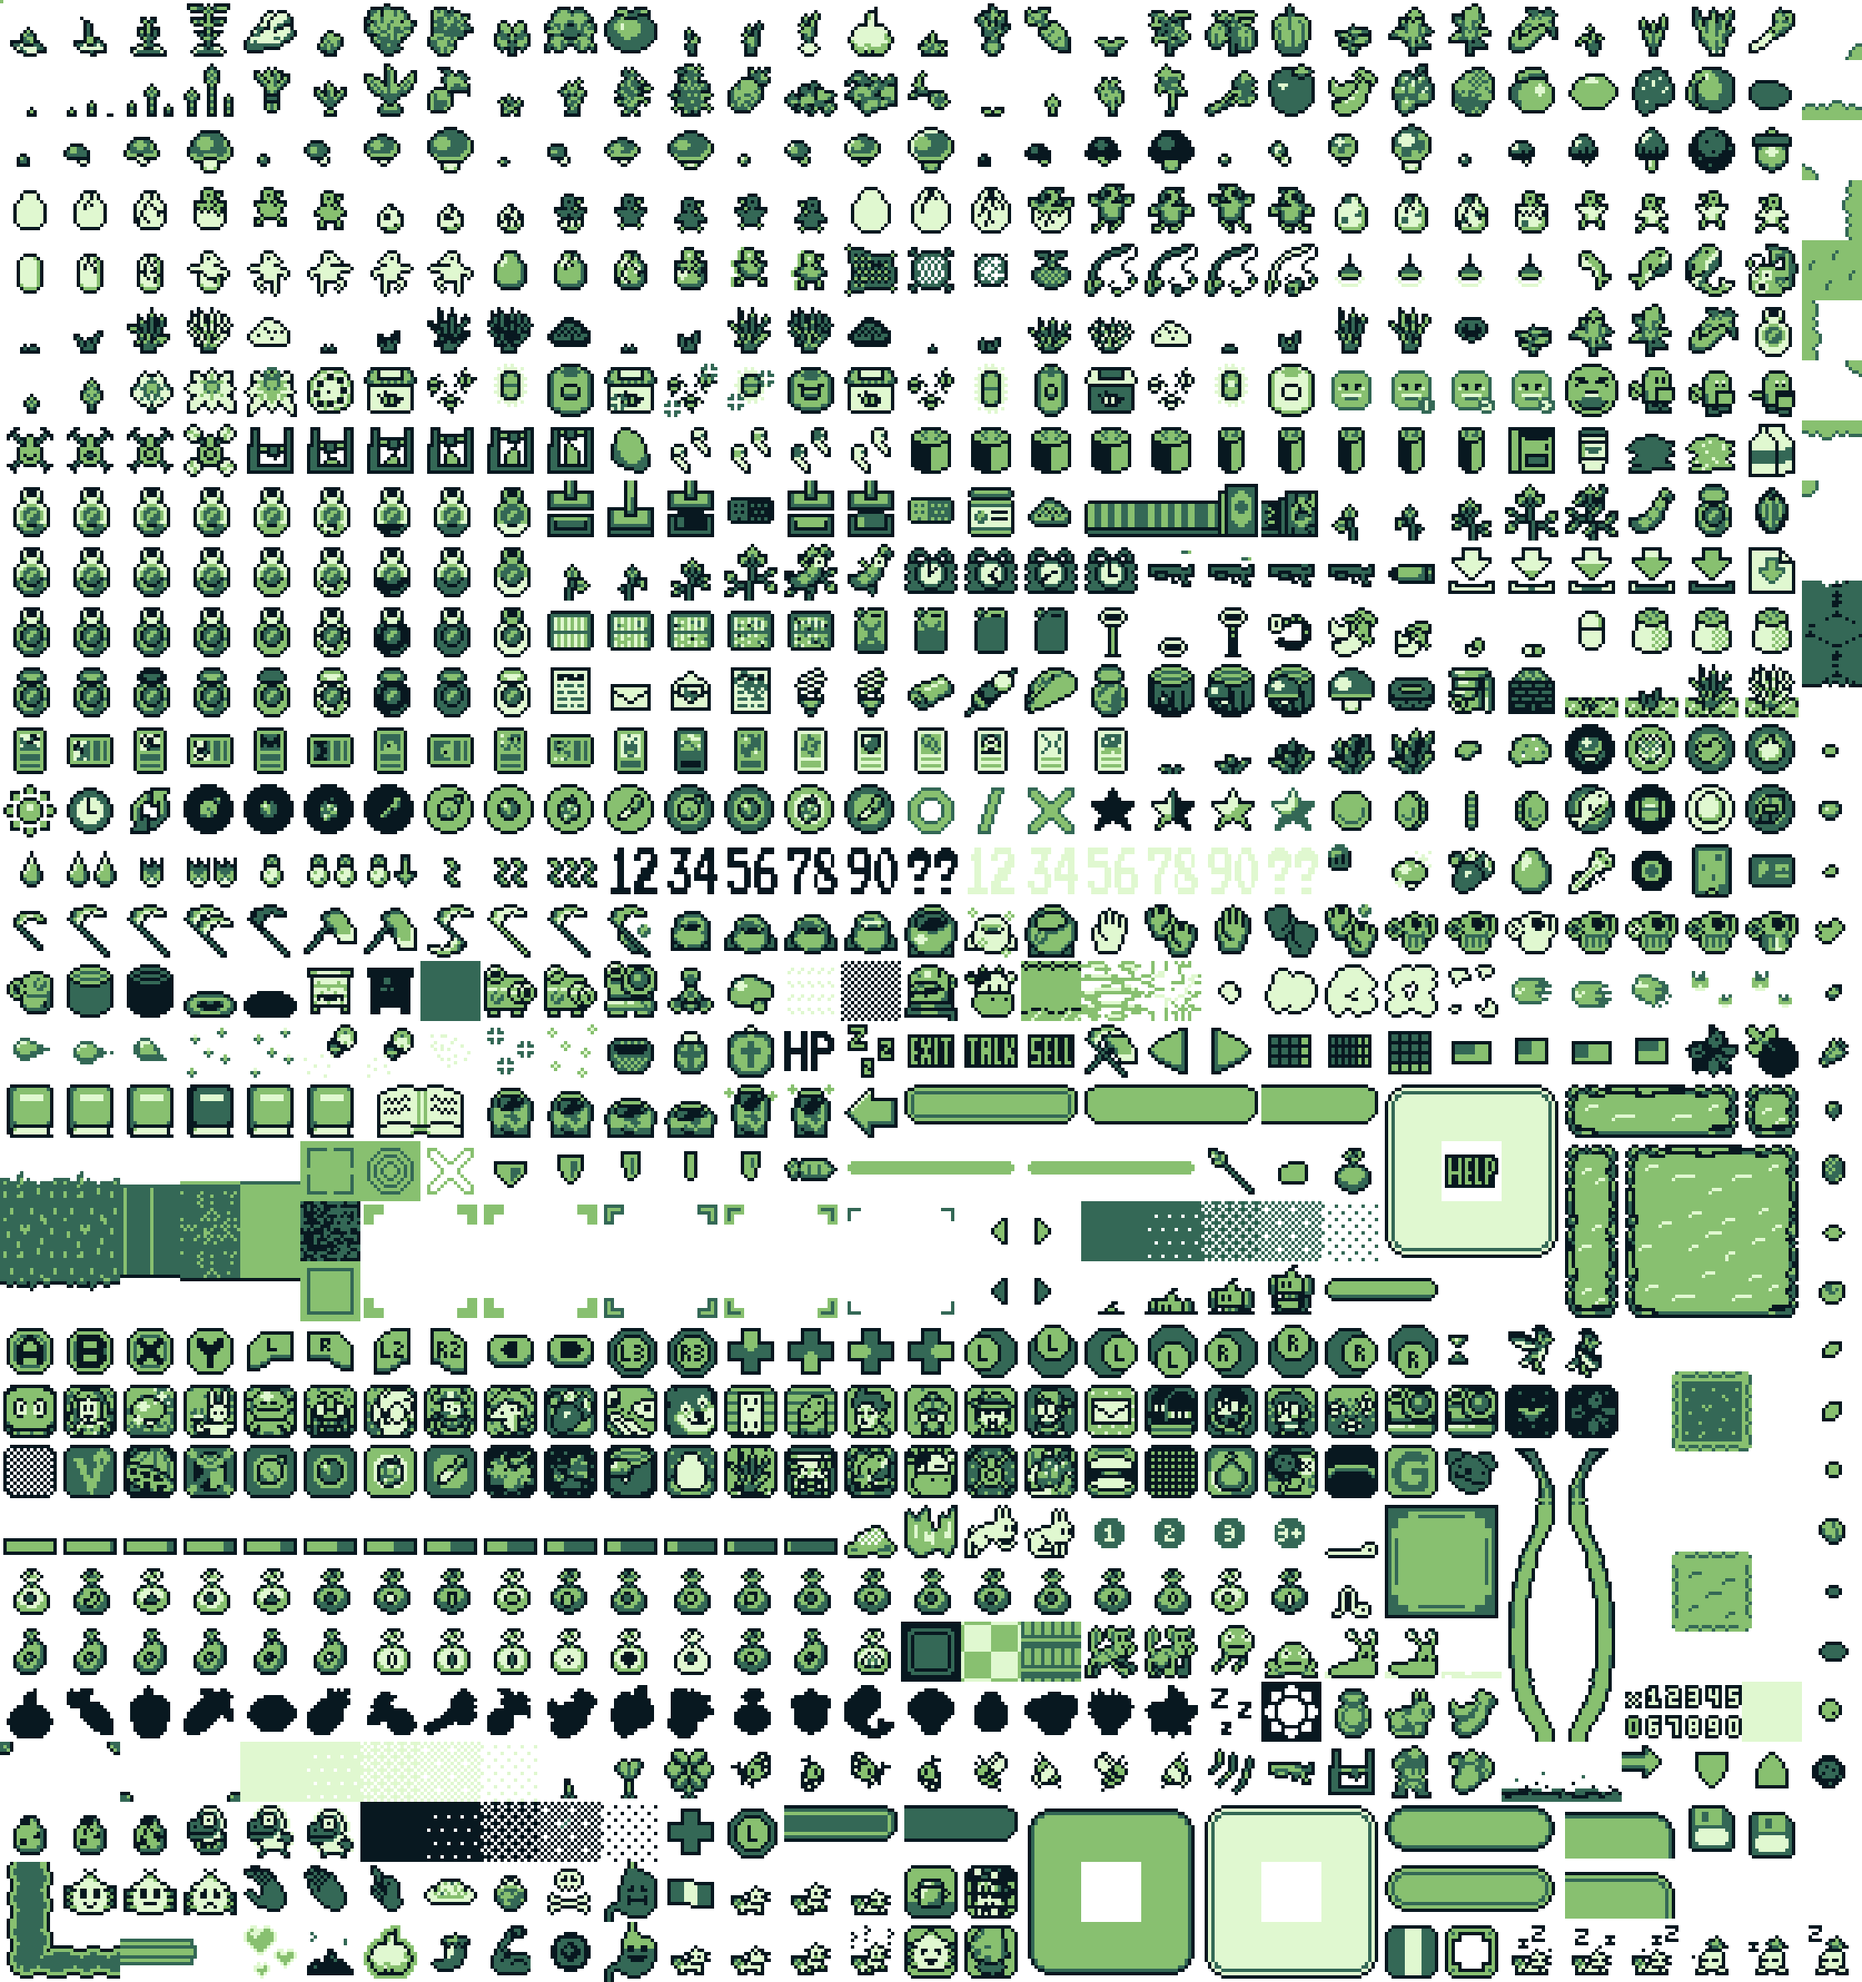
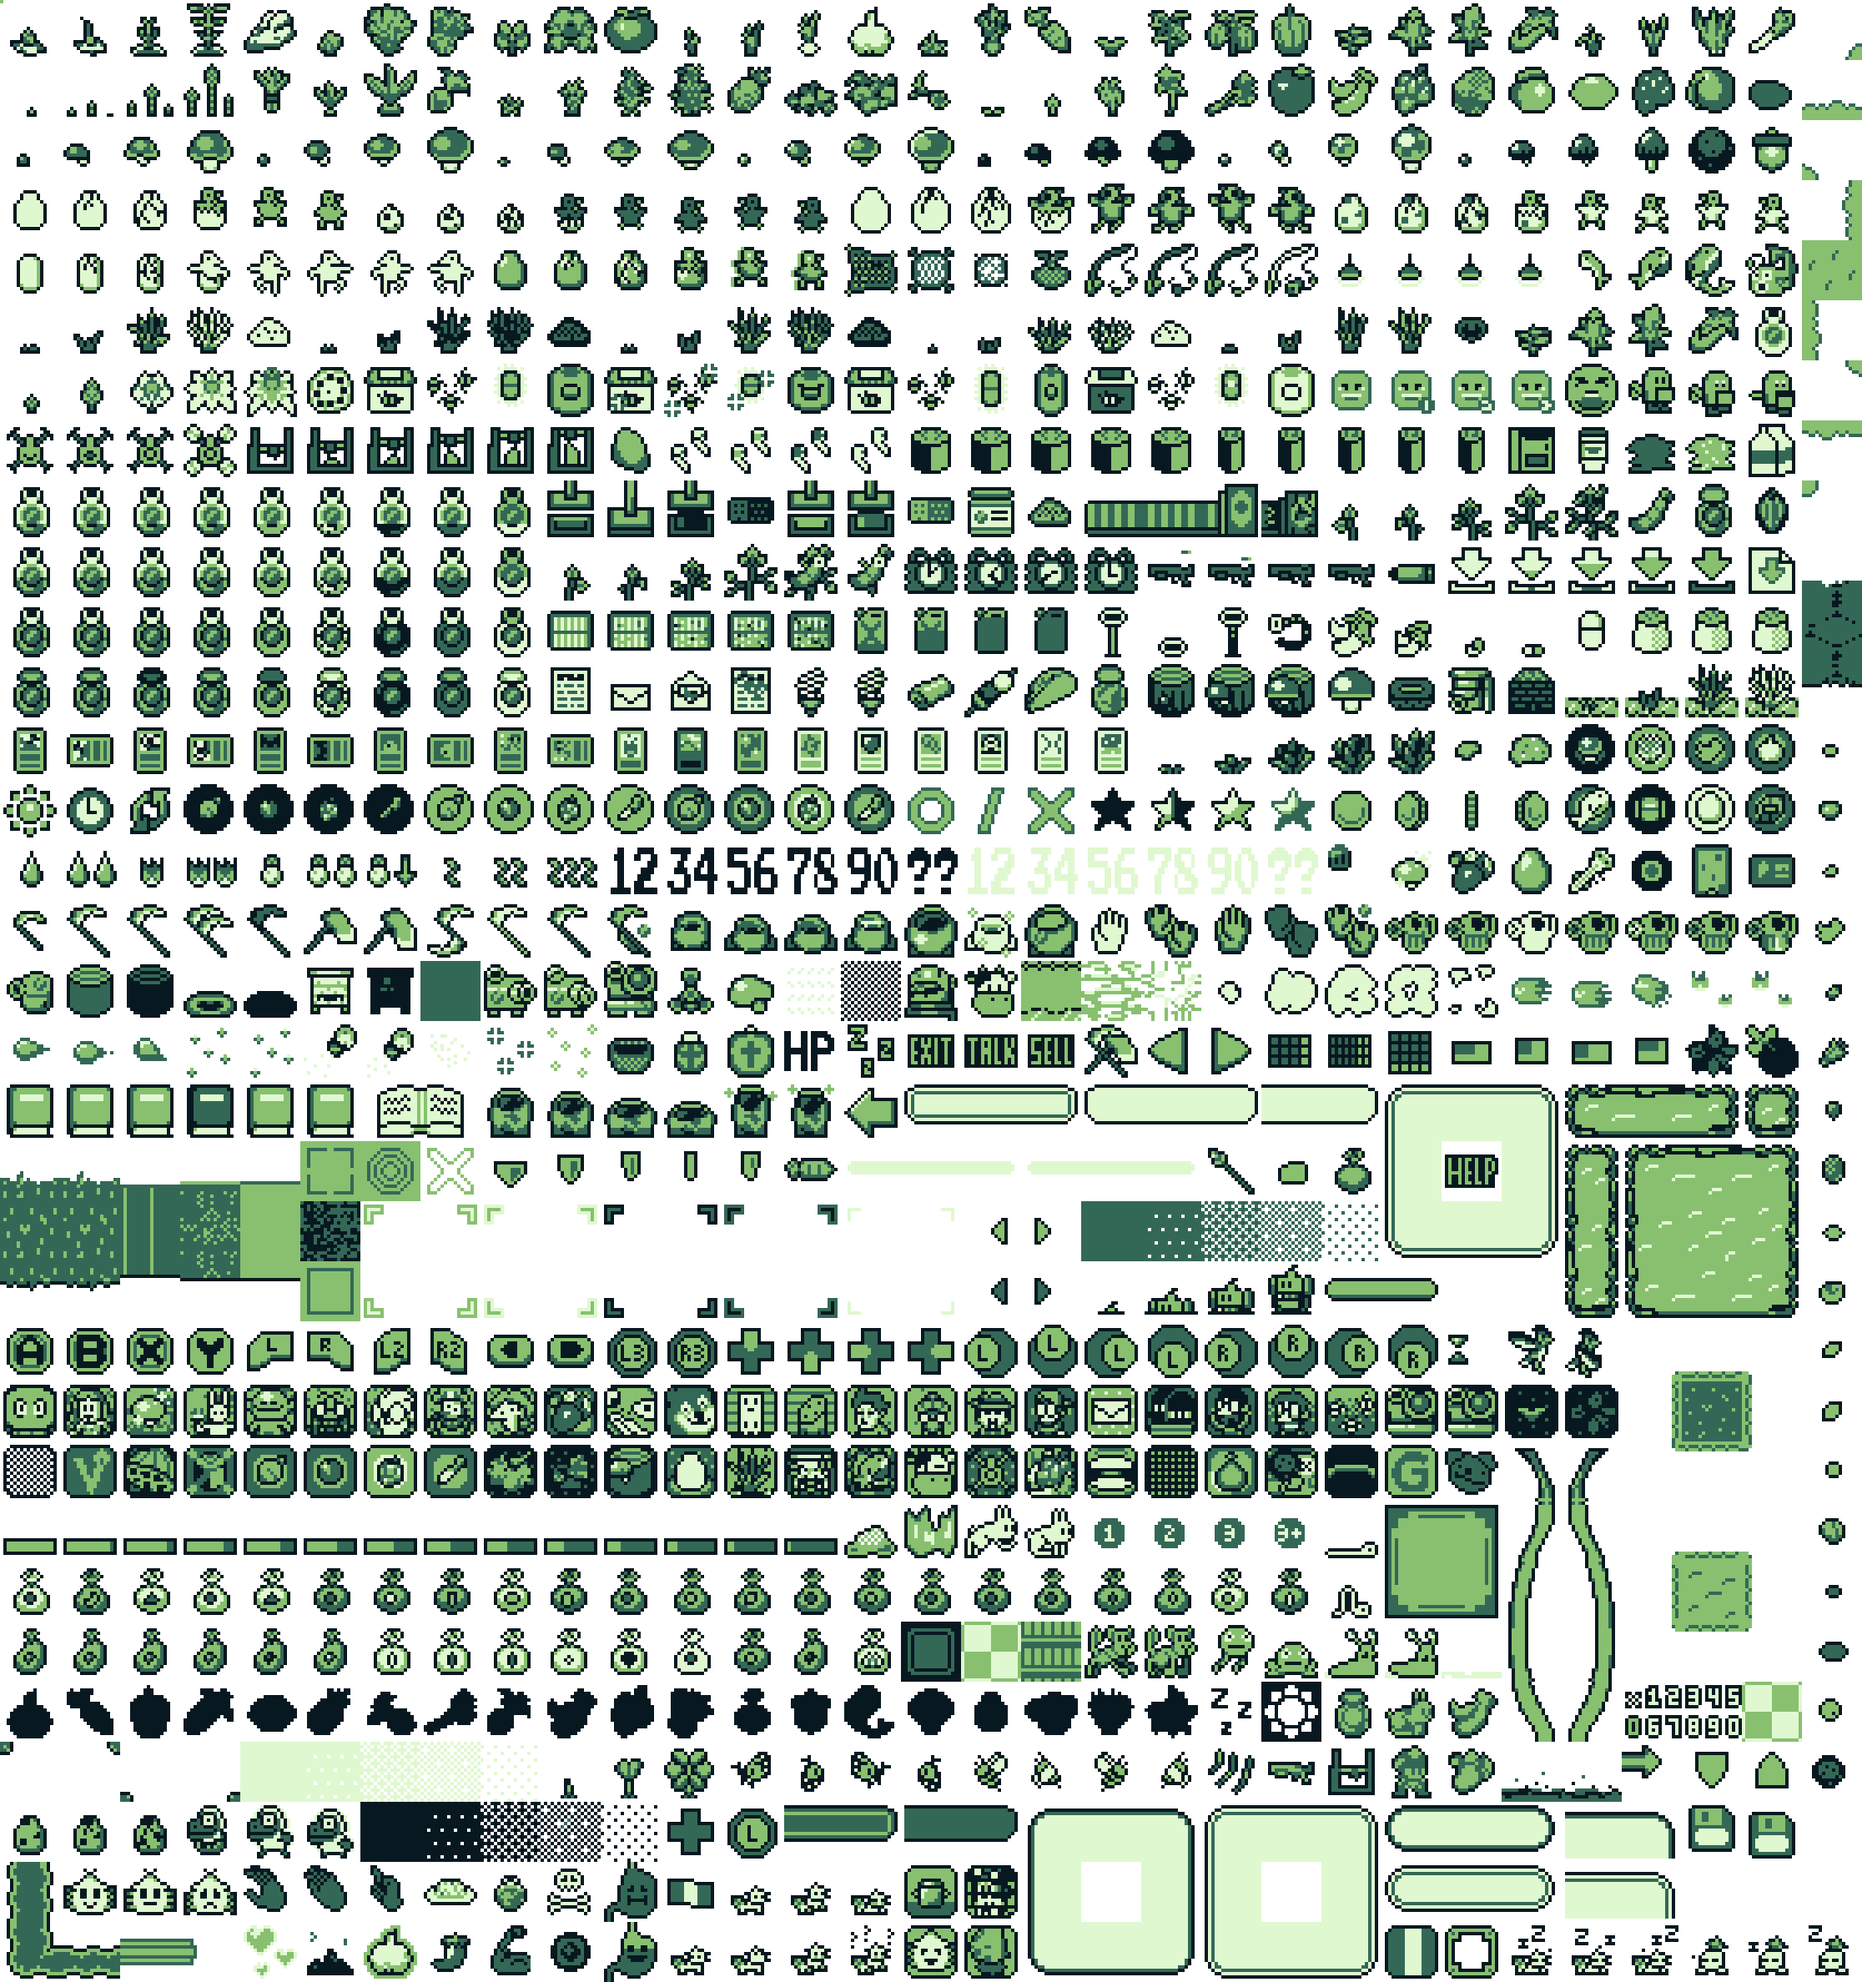
Corrections

diff --git a/README.md b/README.md
@@ -36,6 +36,12 @@ The following arguments can be supplied (all `.ora` files referenced are in `too
 
 **TODO: *shop_XXX.ora*, *logo.ora*, *colorPreview.ora*, and *endcredits.ora* files still require manual export.**
 
+#### BuildMonochrome.js
+Copies all images from **img** into **imggb** after converting them to a 4-color monochrome color scheme.
+
+**TODO: Sprites *FarmInfo%*, *MetalInfo%*, *BtlSel%*, *CornerBtn%*, and *%Sel%* must be manually set to the maximum brightness.**
+**TODO: Sprites *%cursor%.%* and *optTile* must be manually corrected.**
+
 #### BuildSpreadsheets.js
 Generates game data from the spreadsheets in the **tools/ods** folder. With no parameters passed it should generate all data needed for the game.
 
